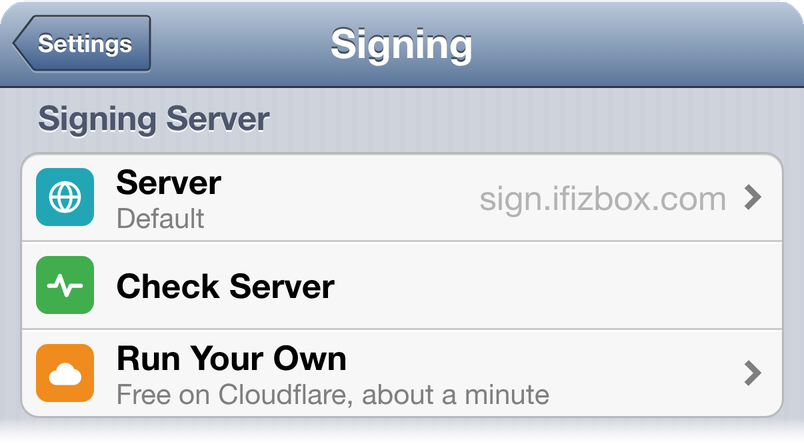
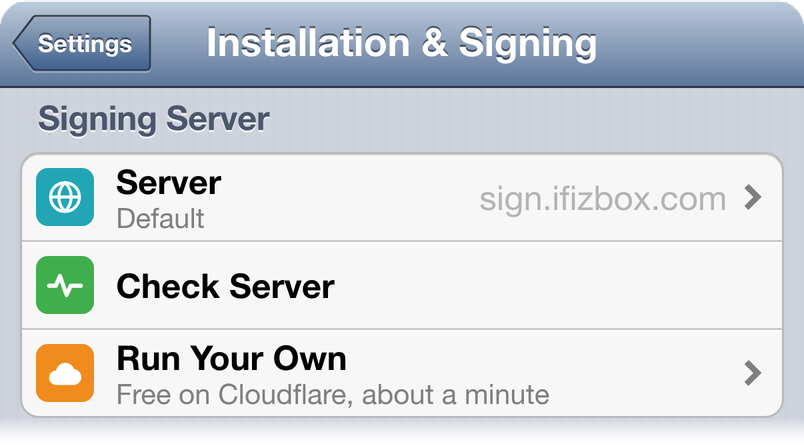
D13 Retake crop-signing-server.png: sideload settings page is titled Installation & Signing now

Changed region(s): [[0.2488, 0.0583, 0.7463, 0.1457]]

diff --git a/plan/TODO.md b/plan/TODO.md
@@ -36,7 +36,6 @@ parsed). Finish with `agent-runner done <ID> "msg"`.
 - [~] **R37** (follow-up, low) Free Apple ID route, Developer Mode steps: check the redrawn Settings pictures in web/app/screens/free-apple-id.js devModeSteps (wording of the restart and Turn On alerts, the Stolen Device Protection delay screen, VPN & Device Management's Developer App row) against the user's iPhone 15 on iOS 27 with someone there, and fix any wording that differs; or, if the user prefers, swap in their own screenshots under web/app/icons/steps/ (AGENTS.md allows Settings screenshots as tutorial steps) | files: web/app/screens/free-apple-id.js, web/app/freeid.css, web/app/icons/steps/** | after: F254i BLOCKED: Needs the user at their iPhone 15 (iOS 27): toggle Developer Mode (restart alert, Turn On alert, Stolen Device Protection delay screen) and open VPN & Device Management with a free-ID app installed, then shoot those screens or drop screenshots in web/app/icons/steps/. The phone is read-only without someone there, and this run was unattended.
 - [ ] **R38** (follow-up, low) Run the F258 setup command for real, with the user: a first 'setup' release (tools/setup/release.sh, needs the user's OK to publish), then with the iPhone 15 by USB once F254f shows a code: install + pairing file written + the app reads it (F254g); on a Mac (universal build: Apple silicon and Intel via arch -x86_64; LLD's ad hoc signature accepted) and on real Windows 11 x64 and ARM64 (Apple Devices app driver on 27015, the Store link 9NP83LWLPZ9K, no window closing under iex). F258 only ran find/trust/Developer Mode reads (Linux x86_64, arm64 under qemu, Windows x64 under wine via a socat bridge). tools/setup/core tools/setup/install.ps1.in tools/setup/install.sh.in tools/setup/__pycache__ tools/setup/release.sh tools/setup/test_setup.py | files: tools/setup/cli | after: F254f
 - [ ] **D11** (follow-up, low) Notifications guide (screens/guides.js KEEP_INTRO/STEPS[KEEP_GUIDE]) and docs/signing.md Keep Bundle IDs: once the API key's own profiles are on main (Settings > Signing > Apple Developer Account), say that route makes one App ID per app, which only keeps apps' keychains and App Groups apart (one Push App ID already covers every app's notifications). | files: web/app/screens/guides.js, web/app/screens/guides.test.js, docs/signing.md | after: F278
-- [ ] **D13** (follow-up, low) README/worker screenshot crop-signing-server.png still shows the sideload page titled 'Signing'; it is Settings > Installation & Signing now. Retake it (README shots route: readme_shots.py / capture.mjs with the fake bridge, sideload mode) so the title matches; alt texts already say Installation & Signing | files: docs/img/crop-signing-server.png
 
 ### Parked
 

diff --git a/plan/DONE.md b/plan/DONE.md
@@ -453,6 +453,7 @@
 - [x] **B115** (follow-up, normal) This iPhone's Install Apps With subtitle lists its no-popup benefit (user 2026-11-19): installs through installation_proxy never show iOS's install prompt, so the subtitle reads 'LocalDevVPN or Tailscale / No server, no install popup / Updates itself' (one point per line, must fit the row on a 375pt-wide phone without cutting off), and IPHONE_INTRO mentions it. Update core/installroute tests and docs/settings.md. | files: web/app/core/installroute.js, web/app/core/installroute.test.js, web/app/screens/installroute.test.js, docs/settings.md
 - [x] **C15** (follow-up, low) Sideload build: user-visible texts still say 'Settings > Signing' (guides.js steps and rows, altstore.js Install footers, signing-client.js No Certificate alert, free-apple-id.js) though F271 renamed that page 'Installation & Signing' there; say the merged page's name in the sideload build, keep 'Settings > Signing' on the website (its page kept the name). Links (#settings/signing) already land right. | files: web/app/screens/guides.js, web/app/screens/altstore.js, web/app/signing-client.js, web/app/screens/free-apple-id.js, web/app/screens/myipas.js | after: F271
 - [x] **D10** (follow-up, low) Push wording outside D9's files: docs/developer-account.md step 3 still says 'One App ID per app' and core/keepid.js profileNotes' one-App-ID note says 'use it for one app'. Say instead: one explicit App ID with Push covers every app's notifications; an App ID per app only keeps keychains and App Groups apart. Keep keepid tests passing. | files: docs/developer-account.md, web/app/core/keepid.js, web/app/core/keepid.test.js
+- [x] **D13** (follow-up, low) README/worker screenshot crop-signing-server.png still shows the sideload page titled 'Signing'; it is Settings > Installation & Signing now. Retake it (README shots route: readme_shots.py / capture.mjs with the fake bridge, sideload mode) so the title matches; alt texts already say Installation & Signing | files: docs/img/crop-signing-server.png
 
 ### Parked
 - [x] **F12** (follow-up, later) Widget-only IPA (WidgetKit 'n upgrades' + local notifications), only if F10's Web Push proves unreliable on real phones. Needs an explicit App ID with Push/App Groups and its own ad hoc profile in sidedrop. See docs/ipa.md | files: ipa/** — dropped: superseded: the IPA build (I2-I3) and N8's widget cover it

diff --git a/journal/2026-11-19-d13-signing-server-crop/notes.md b/journal/2026-11-19-d13-signing-server-crop/notes.md
@@ -1,0 +1,16 @@
+# D13: retake crop-signing-server.png
+
+`docs/img/crop-signing-server.png` showed the sideload settings page titled "Signing"; the page is
+Settings > Installation & Signing now. Retook it with the README crops route
+(`journal/2026-11-19-readme-crops/`: capture.mjs `--mode sideload` with `sideload.json`, then crop.py's
+`crop()` for this one crop, band 352-531 points as before).
+
+- The element box (`rect` step) is unchanged at 356-517 points, so the band in crop.py still fits; same size
+  (804x446). Only the nav bar title differs from the old image (compared by eye).
+- crop.py's `__main__` makes every crop and needs the website shots too; to retake one crop, import it and call
+  `crop.crop(raw/"sl-signing.png", 352, 531)`.
+- Failed first try: port 8817 (the readme-crops notes' port) was already held by a worker server running from the
+  main checkout (not mine, left running), so my server died with EADDRINUSE and the first capture came from
+  main's web/app. Retook on port 8873 from this worktree; the result was byte-identical. Pick a free port.
+
+**Not verified**: none.
